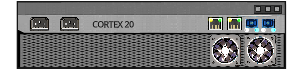
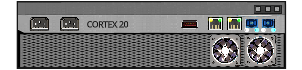
0.12.6

Changed region(s): [[0.2682, 0.2857, 0.447, 0.4], [0.596, 0.2857, 0.6556, 0.4286]]

diff --git a/tni-docs/devices.md b/tni-docs/devices.md
@@ -6,7 +6,7 @@ permalink: /data/devices
 
 # Devices
 {: .no_toc }
-GENERATED FOR TNI VERSION 0.12.5
+GENERATED FOR TNI VERSION 0.12.6
 
 - TOC
 {:toc}
@@ -22,7 +22,7 @@ GENERATED FOR TNI VERSION 0.12.5
 ## Avex Secretary<img src="{{ site.baseurl }}/tni-docs/assets/devices/Avex Secretary.webp" class="img-1em" /><wa-tooltip style="--max-width: 90vw;"><img src="{{ site.baseurl }}/tni-docs/assets/devices/Avex Secretary.webp" style="max-height: 25vh;" /></wa-tooltip>  
 **CPU:** `23` **MEM:** `13` **SIZE:** `10` **BW/t:** `168` **Watts:** 953w  
 **Base Price:** $5150 **Base Warranty:** 35.0 days   
-**Port Counts:** 2x `RJ45`, 2x `FIBER_OPTIC_SC`, 2x `SATA35_SLOT`, 2x `B_3PIN`  
+**Port Counts:** 2x `RJ45`, 2x `FIBER_OPTIC_SC`, 2x `SATA35_SLOT`, 1x `A_USB`, 2x `B_3PIN`  
 **Hardware Class:** `COMPUTE_SERVER`  
 **Merchants:** [Avex Tech<img src="{{ site.baseurl }}/tni-docs/assets/merchants/Avex Tech.svg" class="img-1em" /><wa-tooltip style="--max-width: 90vw;"><img src="{{ site.baseurl }}/tni-docs/assets/merchants/Avex Tech.svg" style="max-height: 25vh;" /></wa-tooltip>](merchants.md/#avex-tech)  
 **Description:**  
@@ -40,7 +40,7 @@ Spacious and efficient. Perfect for businesses with growing data needs.
 ## Avex Skua<img src="{{ site.baseurl }}/tni-docs/assets/devices/Avex Skua.webp" class="img-1em" /><wa-tooltip style="--max-width: 90vw;"><img src="{{ site.baseurl }}/tni-docs/assets/devices/Avex Skua.webp" style="max-height: 25vh;" /></wa-tooltip>  
 **CPU:** `12` **MEM:** `16` **SIZE:** `4` **BW/t:** `90` **Watts:** 723w  
 **Base Price:** $3000 **Base Warranty:** 21.0 days   
-**Port Counts:** 2x `RJ45`, 2x `SATA35_SLOT`, 1x `FIBER_OPTIC_SC`, 2x `B_3PIN`  
+**Port Counts:** 2x `RJ45`, 2x `SATA35_SLOT`, 1x `FIBER_OPTIC_SC`, 1x `A_USB`, 2x `B_3PIN`  
 **Hardware Class:** `COMPUTE_SERVER`  
 **Merchants:** [Avex Tech<img src="{{ site.baseurl }}/tni-docs/assets/merchants/Avex Tech.svg" class="img-1em" /><wa-tooltip style="--max-width: 90vw;"><img src="{{ site.baseurl }}/tni-docs/assets/merchants/Avex Tech.svg" style="max-height: 25vh;" /></wa-tooltip>](merchants.md/#avex-tech)  
 **Description:**  
@@ -58,7 +58,7 @@ Powerful and responsive. Perfect for businesses with intensive operations.
 ## Avex Sparrow<img src="{{ site.baseurl }}/tni-docs/assets/devices/Avex Sparrow.webp" class="img-1em" /><wa-tooltip style="--max-width: 90vw;"><img src="{{ site.baseurl }}/tni-docs/assets/devices/Avex Sparrow.webp" style="max-height: 25vh;" /></wa-tooltip>  
 **CPU:** `3` **MEM:** `4` **SIZE:** `8` **BW/t:** `21` **Watts:** 88w  
 **Base Price:** $1100 **Base Warranty:** 14.0 days   
-**Port Counts:** 3x `RJ45`, 1x `B_3PIN`  
+**Port Counts:** 3x `RJ45`, 1x `A_USB`, 1x `B_3PIN`  
 **Hardware Class:** `COMPUTE_SERVER`  
 **Merchants:** [Avex Tech<img src="{{ site.baseurl }}/tni-docs/assets/merchants/Avex Tech.svg" class="img-1em" /><wa-tooltip style="--max-width: 90vw;"><img src="{{ site.baseurl }}/tni-docs/assets/merchants/Avex Tech.svg" style="max-height: 25vh;" /></wa-tooltip>](merchants.md/#avex-tech)  
 **Description:**  
@@ -74,7 +74,7 @@ Compact and cost-efficient. Perfect for businesses in early deployment
 ## Avex Starling<img src="{{ site.baseurl }}/tni-docs/assets/devices/Avex Starling.webp" class="img-1em" /><wa-tooltip style="--max-width: 90vw;"><img src="{{ site.baseurl }}/tni-docs/assets/devices/Avex Starling.webp" style="max-height: 25vh;" /></wa-tooltip>  
 **CPU:** `7` **MEM:** `6` **SIZE:** `7` **BW/t:** `39` **Watts:** 191w  
 **Base Price:** $1150 **Base Warranty:** 14.0 days   
-**Port Counts:** 3x `RJ45`, 2x `B_3PIN`  
+**Port Counts:** 3x `RJ45`, 1x `A_USB`, 2x `B_3PIN`  
 **Hardware Class:** `COMPUTE_SERVER`  
 **Merchants:** [Avex Tech<img src="{{ site.baseurl }}/tni-docs/assets/merchants/Avex Tech.svg" class="img-1em" /><wa-tooltip style="--max-width: 90vw;"><img src="{{ site.baseurl }}/tni-docs/assets/merchants/Avex Tech.svg" style="max-height: 25vh;" /></wa-tooltip>](merchants.md/#avex-tech)  
 **Description:**  
@@ -90,7 +90,7 @@ Balanced and dependable. Perfect for businesses in steady expansion.
 ## Avex Swallow<img src="{{ site.baseurl }}/tni-docs/assets/devices/Avex Swallow.webp" class="img-1em" /><wa-tooltip style="--max-width: 90vw;"><img src="{{ site.baseurl }}/tni-docs/assets/devices/Avex Swallow.webp" style="max-height: 25vh;" /></wa-tooltip>  
 **CPU:** `4` **MEM:** `8` **SIZE:** `12` **BW/t:** `38` **Watts:** 200w  
 **Base Price:** $3000 **Base Warranty:** 21.0 days   
-**Port Counts:** 2x `RJ45`, 2x `SATA35_SLOT`, 1x `FIBER_OPTIC_SC`, 2x `B_3PIN`  
+**Port Counts:** 2x `RJ45`, 2x `SATA35_SLOT`, 1x `FIBER_OPTIC_SC`, 1x `A_USB`, 2x `B_3PIN`  
 **Hardware Class:** `COMPUTE_SERVER`  
 **Merchants:** [Avex Tech<img src="{{ site.baseurl }}/tni-docs/assets/merchants/Avex Tech.svg" class="img-1em" /><wa-tooltip style="--max-width: 90vw;"><img src="{{ site.baseurl }}/tni-docs/assets/merchants/Avex Tech.svg" style="max-height: 25vh;" /></wa-tooltip>](merchants.md/#avex-tech)  
 **Description:**  
@@ -309,7 +309,7 @@ This device is well sought after in the second hand market.
 ## Cortex 20<img src="{{ site.baseurl }}/tni-docs/assets/devices/Cortex 20.webp" class="img-1em" /><wa-tooltip style="--max-width: 90vw;"><img src="{{ site.baseurl }}/tni-docs/assets/devices/Cortex 20.webp" style="max-height: 25vh;" /></wa-tooltip>  
 **CPU:** `20` **MEM:** `20` **SIZE:** `3` **BW/t:** `180` **Watts:** 1018w  
 **Base Price:** $4050 **Base Warranty:** 35.0 days   
-**Port Counts:** 2x `RJ45`, 2x `FIBER_OPTIC_SC`, 2x `B_3PIN`  
+**Port Counts:** 2x `RJ45`, 2x `FIBER_OPTIC_SC`, 1x `A_USB`, 2x `B_3PIN`  
 **Hardware Class:** `COMPUTE_SERVER`  
 **Merchants:** [Cortex Org.<img src="{{ site.baseurl }}/tni-docs/assets/merchants/Cortex Org.png" class="img-1em" /><wa-tooltip style="--max-width: 90vw;"><img src="{{ site.baseurl }}/tni-docs/assets/merchants/Cortex Org.png" style="max-height: 25vh;" /></wa-tooltip>](merchants.md/#cortex-org)  
 **Description:**  
@@ -325,7 +325,7 @@ Suitable for medium teams.
 ## Cortex 28<img src="{{ site.baseurl }}/tni-docs/assets/devices/Cortex 28.webp" class="img-1em" /><wa-tooltip style="--max-width: 90vw;"><img src="{{ site.baseurl }}/tni-docs/assets/devices/Cortex 28.webp" style="max-height: 25vh;" /></wa-tooltip>  
 **CPU:** `28` **MEM:** `24` **SIZE:** `4` **BW/t:** `302` **Watts:** 1323w  
 **Base Price:** $6900 **Base Warranty:** 35.0 days   
-**Port Counts:** 2x `RJ45`, 3x `FIBER_OPTIC_SC`, 2x `B_3PIN`  
+**Port Counts:** 2x `RJ45`, 3x `FIBER_OPTIC_SC`, 1x `A_USB`, 2x `B_3PIN`  
 **Hardware Class:** `COMPUTE_SERVER`  
 **Merchants:** [Cortex Org.<img src="{{ site.baseurl }}/tni-docs/assets/merchants/Cortex Org.png" class="img-1em" /><wa-tooltip style="--max-width: 90vw;"><img src="{{ site.baseurl }}/tni-docs/assets/merchants/Cortex Org.png" style="max-height: 25vh;" /></wa-tooltip>](merchants.md/#cortex-org)  
 **Description:**  
@@ -341,7 +341,7 @@ Suitable for enterprise team.
 ## Cortex 8<img src="{{ site.baseurl }}/tni-docs/assets/devices/Cortex 8.webp" class="img-1em" /><wa-tooltip style="--max-width: 90vw;"><img src="{{ site.baseurl }}/tni-docs/assets/devices/Cortex 8.webp" style="max-height: 25vh;" /></wa-tooltip>  
 **CPU:** `8` **MEM:** `8` **SIZE:** `2` **BW/t:** `36` **Watts:** 186w  
 **Base Price:** $1250 **Base Warranty:** 28.0 days   
-**Port Counts:** 1x `RJ45`, 1x `FIBER_OPTIC_SC`, 1x `B_3PIN`  
+**Port Counts:** 1x `RJ45`, 1x `FIBER_OPTIC_SC`, 1x `A_USB`, 1x `B_3PIN`  
 **Hardware Class:** `COMPUTE_SERVER`  
 **Merchants:** [Cortex Org.<img src="{{ site.baseurl }}/tni-docs/assets/merchants/Cortex Org.png" class="img-1em" /><wa-tooltip style="--max-width: 90vw;"><img src="{{ site.baseurl }}/tni-docs/assets/merchants/Cortex Org.png" style="max-height: 25vh;" /></wa-tooltip>](merchants.md/#cortex-org)  
 **Description:**  
@@ -357,7 +357,7 @@ Suitable for light office use
 ## Cortex Espresso<img src="{{ site.baseurl }}/tni-docs/assets/devices/Cortex Espresso.webp" class="img-1em" /><wa-tooltip style="--max-width: 90vw;"><img src="{{ site.baseurl }}/tni-docs/assets/devices/Cortex Espresso.webp" style="max-height: 25vh;" /></wa-tooltip>  
 **CPU:** `16` **MEM:** `12` **SIZE:** `3` **BW/t:** `100` **Watts:** 718w  
 **Base Price:** $3050 **Base Warranty:** 28.0 days   
-**Port Counts:** 1x `RJ45`, 2x `FIBER_OPTIC_SC`, 1x `B_3PIN`  
+**Port Counts:** 1x `RJ45`, 2x `FIBER_OPTIC_SC`, 1x `A_USB`, 1x `B_3PIN`  
 **Hardware Class:** `COMPUTE_SERVER`  
 **Merchants:** [Cortex Org.<img src="{{ site.baseurl }}/tni-docs/assets/merchants/Cortex Org.png" class="img-1em" /><wa-tooltip style="--max-width: 90vw;"><img src="{{ site.baseurl }}/tni-docs/assets/merchants/Cortex Org.png" style="max-height: 25vh;" /></wa-tooltip>](merchants.md/#cortex-org)  
 **Description:**  
@@ -855,7 +855,7 @@ Requires a SAN initiator program on another device to mount its storage.
 ## ICC1<img src="{{ site.baseurl }}/tni-docs/assets/devices/ICC1.webp" class="img-1em" /><wa-tooltip style="--max-width: 90vw;"><img src="{{ site.baseurl }}/tni-docs/assets/devices/ICC1.webp" style="max-height: 25vh;" /></wa-tooltip>  
 **CPU:** `1` **MEM:** `2` **SIZE:** `2` **BW/t:** `6` **Watts:** 19w  
 **Base Price:** $160 **Base Warranty:** 8.0 days   
-**Port Counts:** 1x `RJ45`, 1x `SATA35_SLOT`, 1x `B_3PIN`  
+**Port Counts:** 1x `RJ45`, 1x `SATA35_SLOT`, 1x `A_USB`, 1x `B_3PIN`  
 **Hardware Class:** `COMPUTE_SERVER`  
 **Merchants:** [Interchange Compute Corporation<img src="{{ site.baseurl }}/tni-docs/assets/merchants/Interchange Compute Corporation.png" class="img-1em" /><wa-tooltip style="--max-width: 90vw;"><img src="{{ site.baseurl }}/tni-docs/assets/merchants/Interchange Compute Corporation.png" style="max-height: 25vh;" /></wa-tooltip>](merchants.md/#interchange-compute-corporation)  
 **Description:**  
@@ -871,7 +871,7 @@ Homelab equipment.
 ## ICC2<img src="{{ site.baseurl }}/tni-docs/assets/devices/ICC2.webp" class="img-1em" /><wa-tooltip style="--max-width: 90vw;"><img src="{{ site.baseurl }}/tni-docs/assets/devices/ICC2.webp" style="max-height: 25vh;" /></wa-tooltip>  
 **CPU:** `2` **MEM:** `4` **SIZE:** `2` **BW/t:** `12` **Watts:** 35w  
 **Base Price:** $345 **Base Warranty:** 8.0 days   
-**Port Counts:** 2x `RJ45`, 1x `SATA35_SLOT`, 1x `B_3PIN`  
+**Port Counts:** 2x `RJ45`, 1x `SATA35_SLOT`, 1x `A_USB`, 1x `B_3PIN`  
 **Hardware Class:** `COMPUTE_SERVER`  
 **Merchants:** [Interchange Compute Corporation<img src="{{ site.baseurl }}/tni-docs/assets/merchants/Interchange Compute Corporation.png" class="img-1em" /><wa-tooltip style="--max-width: 90vw;"><img src="{{ site.baseurl }}/tni-docs/assets/merchants/Interchange Compute Corporation.png" style="max-height: 25vh;" /></wa-tooltip>](merchants.md/#interchange-compute-corporation)  
 **Description:**  
@@ -898,7 +898,7 @@ Not rack mountable.
 ## MacroHard Boulder SRV<img src="{{ site.baseurl }}/tni-docs/assets/devices/MacroHard Boulder SRV.webp" class="img-1em" /><wa-tooltip style="--max-width: 90vw;"><img src="{{ site.baseurl }}/tni-docs/assets/devices/MacroHard Boulder SRV.webp" style="max-height: 25vh;" /></wa-tooltip>  
 **CPU:** `4` **MEM:** `4` **SIZE:** `6` **BW/t:** `16` **Watts:** 72w  
 **Base Price:** $450 **Base Warranty:** 14.0 days   
-**Port Counts:** 2x `RJ45`, 1x `B_3PIN`  
+**Port Counts:** 2x `RJ45`, 1x `A_USB`, 1x `B_3PIN`  
 **Hardware Class:** `COMPUTE_SERVER`  
 **Merchants:** [AB compute Ltd.<img src="{{ site.baseurl }}/tni-docs/assets/merchants/AB compute Ltd.png" class="img-1em" /><wa-tooltip style="--max-width: 90vw;"><img src="{{ site.baseurl }}/tni-docs/assets/merchants/AB compute Ltd.png" style="max-height: 25vh;" /></wa-tooltip>](merchants.md/#ab-compute-ltd), [Tutortial AB compute Ltd.<img src="{{ site.baseurl }}/tni-docs/assets/merchants/AB compute Ltd.png" class="img-1em" /><wa-tooltip style="--max-width: 90vw;"><img src="{{ site.baseurl }}/tni-docs/assets/merchants/AB compute Ltd.png" style="max-height: 25vh;" /></wa-tooltip>](merchants.md/#tutortial-ab-compute-ltd)  
 **Description:**  
@@ -914,7 +914,7 @@ Suitable for small businesses.
 ## MacroHard Boulder+ SRV<img src="{{ site.baseurl }}/tni-docs/assets/devices/MacroHard Boulder+ SRV.webp" class="img-1em" /><wa-tooltip style="--max-width: 90vw;"><img src="{{ site.baseurl }}/tni-docs/assets/devices/MacroHard Boulder+ SRV.webp" style="max-height: 25vh;" /></wa-tooltip>  
 **CPU:** `6` **MEM:** `8` **SIZE:** `8` **BW/t:** `28` **Watts:** 161w  
 **Base Price:** $850 **Base Warranty:** 14.0 days   
-**Port Counts:** 2x `RJ45`, 2x `B_3PIN`  
+**Port Counts:** 2x `RJ45`, 1x `A_USB`, 2x `B_3PIN`  
 **Hardware Class:** `COMPUTE_SERVER`  
 **Merchants:** [AB compute Ltd.<img src="{{ site.baseurl }}/tni-docs/assets/merchants/AB compute Ltd.png" class="img-1em" /><wa-tooltip style="--max-width: 90vw;"><img src="{{ site.baseurl }}/tni-docs/assets/merchants/AB compute Ltd.png" style="max-height: 25vh;" /></wa-tooltip>](merchants.md/#ab-compute-ltd), [Refurb Hut<img src="{{ site.baseurl }}/tni-docs/assets/merchants/Refurb Hut.svg" class="img-1em" /><wa-tooltip style="--max-width: 90vw;"><img src="{{ site.baseurl }}/tni-docs/assets/merchants/Refurb Hut.svg" style="max-height: 25vh;" /></wa-tooltip>](merchants.md/#refurb-hut), [The Server Shoppe<img src="{{ site.baseurl }}/tni-docs/assets/merchants/The Server Shoppe.png" class="img-1em" /><wa-tooltip style="--max-width: 90vw;"><img src="{{ site.baseurl }}/tni-docs/assets/merchants/The Server Shoppe.png" style="max-height: 25vh;" /></wa-tooltip>](merchants.md/#the-server-shoppe), [Tutortial AB compute Ltd.<img src="{{ site.baseurl }}/tni-docs/assets/merchants/AB compute Ltd.png" class="img-1em" /><wa-tooltip style="--max-width: 90vw;"><img src="{{ site.baseurl }}/tni-docs/assets/merchants/AB compute Ltd.png" style="max-height: 25vh;" /></wa-tooltip>](merchants.md/#tutortial-ab-compute-ltd)  
 **Description:**  
@@ -930,7 +930,7 @@ High performance model.
 ## MacroHard Boulder++ SRV<img src="{{ site.baseurl }}/tni-docs/assets/devices/MacroHard Boulder++ SRV.webp" class="img-1em" /><wa-tooltip style="--max-width: 90vw;"><img src="{{ site.baseurl }}/tni-docs/assets/devices/MacroHard Boulder++ SRV.webp" style="max-height: 25vh;" /></wa-tooltip>  
 **CPU:** `6` **MEM:** `10` **SIZE:** `10` **BW/t:** `48` **Watts:** 312w  
 **Base Price:** $1400 **Base Warranty:** 14.0 days   
-**Port Counts:** 3x `RJ45`, 2x `B_3PIN`  
+**Port Counts:** 3x `RJ45`, 1x `A_USB`, 2x `B_3PIN`  
 **Hardware Class:** `COMPUTE_SERVER`  
 **Merchants:** [The Server Shoppe<img src="{{ site.baseurl }}/tni-docs/assets/merchants/The Server Shoppe.png" class="img-1em" /><wa-tooltip style="--max-width: 90vw;"><img src="{{ site.baseurl }}/tni-docs/assets/merchants/The Server Shoppe.png" style="max-height: 25vh;" /></wa-tooltip>](merchants.md/#the-server-shoppe)  
 **Description:**  
@@ -946,7 +946,7 @@ High performance model with extra bandwidth.
 ## MacroHard Ledge Three SRV<img src="{{ site.baseurl }}/tni-docs/assets/devices/MacroHard Ledge Three SRV.webp" class="img-1em" /><wa-tooltip style="--max-width: 90vw;"><img src="{{ site.baseurl }}/tni-docs/assets/devices/MacroHard Ledge Three SRV.webp" style="max-height: 25vh;" /></wa-tooltip>  
 **CPU:** `24` **MEM:** `16` **SIZE:** `4` **BW/t:** `208` **Watts:** 1125w  
 **Base Price:** $3200 **Base Warranty:** 21.0 days   
-**Port Counts:** 2x `SATA35_SLOT`, 4x `FIBER_OPTIC_SC`, 2x `B_3PIN`  
+**Port Counts:** 2x `SATA35_SLOT`, 4x `FIBER_OPTIC_SC`, 1x `A_USB`, 2x `B_3PIN`  
 **Hardware Class:** `COMPUTE_SERVER`  
 **Merchants:** [The Server Shoppe<img src="{{ site.baseurl }}/tni-docs/assets/merchants/The Server Shoppe.png" class="img-1em" /><wa-tooltip style="--max-width: 90vw;"><img src="{{ site.baseurl }}/tni-docs/assets/merchants/The Server Shoppe.png" style="max-height: 25vh;" /></wa-tooltip>](merchants.md/#the-server-shoppe)  
 **Description:**  
@@ -962,7 +962,7 @@ Fiber enabled compute server.
 ## MacroHard Ledge Two SRV<img src="{{ site.baseurl }}/tni-docs/assets/devices/MacroHard Ledge Two SRV.webp" class="img-1em" /><wa-tooltip style="--max-width: 90vw;"><img src="{{ site.baseurl }}/tni-docs/assets/devices/MacroHard Ledge Two SRV.webp" style="max-height: 25vh;" /></wa-tooltip>  
 **CPU:** `24` **MEM:** `14` **SIZE:** `4` **BW/t:** `150` **Watts:** 973w  
 **Base Price:** $2100 **Base Warranty:** 21.0 days   
-**Port Counts:** 2x `SATA35_SLOT`, 3x `FIBER_OPTIC_SC`, 2x `B_3PIN`  
+**Port Counts:** 2x `SATA35_SLOT`, 3x `FIBER_OPTIC_SC`, 1x `A_USB`, 2x `B_3PIN`  
 **Hardware Class:** `COMPUTE_SERVER`  
 **Merchants:** [The Server Shoppe<img src="{{ site.baseurl }}/tni-docs/assets/merchants/The Server Shoppe.png" class="img-1em" /><wa-tooltip style="--max-width: 90vw;"><img src="{{ site.baseurl }}/tni-docs/assets/merchants/The Server Shoppe.png" style="max-height: 25vh;" /></wa-tooltip>](merchants.md/#the-server-shoppe)  
 **Description:**  
@@ -978,7 +978,7 @@ Fiber enabled compute server.
 ## MacroHard Megalith SRV<img src="{{ site.baseurl }}/tni-docs/assets/devices/MacroHard Megalith SRV.webp" class="img-1em" /><wa-tooltip style="--max-width: 90vw;"><img src="{{ site.baseurl }}/tni-docs/assets/devices/MacroHard Megalith SRV.webp" style="max-height: 25vh;" /></wa-tooltip>  
 **CPU:** `32` **MEM:** `16` **SIZE:** `4` **BW/t:** `240` **Watts:** 1223w  
 **Base Price:** $3800 **Base Warranty:** 24.0 days   
-**Port Counts:** 5x `RJ45`, 6x `SATA35_SLOT`, 2x `B_3PIN`  
+**Port Counts:** 5x `RJ45`, 6x `SATA35_SLOT`, 1x `A_USB`, 2x `B_3PIN`  
 **Hardware Class:** `COMPUTE_SERVER`  
 **Merchants:** [Refurb Hut<img src="{{ site.baseurl }}/tni-docs/assets/merchants/Refurb Hut.svg" class="img-1em" /><wa-tooltip style="--max-width: 90vw;"><img src="{{ site.baseurl }}/tni-docs/assets/merchants/Refurb Hut.svg" style="max-height: 25vh;" /></wa-tooltip>](merchants.md/#refurb-hut), [The Server Shoppe<img src="{{ site.baseurl }}/tni-docs/assets/merchants/The Server Shoppe.png" class="img-1em" /><wa-tooltip style="--max-width: 90vw;"><img src="{{ site.baseurl }}/tni-docs/assets/merchants/The Server Shoppe.png" style="max-height: 25vh;" /></wa-tooltip>](merchants.md/#the-server-shoppe)  
 **Description:**  
@@ -994,7 +994,7 @@ Comes with 6 SATA 3.5" expansion slot.
 ## MacroHard Monolith SRV<img src="{{ site.baseurl }}/tni-docs/assets/devices/MacroHard Monolith SRV.webp" class="img-1em" /><wa-tooltip style="--max-width: 90vw;"><img src="{{ site.baseurl }}/tni-docs/assets/devices/MacroHard Monolith SRV.webp" style="max-height: 25vh;" /></wa-tooltip>  
 **CPU:** `16` **MEM:** `10` **SIZE:** `4` **BW/t:** `52` **Watts:** 429w  
 **Base Price:** $1680 **Base Warranty:** 14.0 days   
-**Port Counts:** 2x `RJ45`, 2x `SATA35_SLOT`, 2x `B_3PIN`  
+**Port Counts:** 2x `RJ45`, 2x `SATA35_SLOT`, 1x `A_USB`, 2x `B_3PIN`  
 **Hardware Class:** `COMPUTE_SERVER`  
 **Merchants:** [The Server Shoppe<img src="{{ site.baseurl }}/tni-docs/assets/merchants/The Server Shoppe.png" class="img-1em" /><wa-tooltip style="--max-width: 90vw;"><img src="{{ site.baseurl }}/tni-docs/assets/merchants/The Server Shoppe.png" style="max-height: 25vh;" /></wa-tooltip>](merchants.md/#the-server-shoppe)  
 **Description:**  
@@ -1057,7 +1057,7 @@ Not rack mountable.
 ## Savannah Aardvark<img src="{{ site.baseurl }}/tni-docs/assets/devices/Savannah Aardvark.webp" class="img-1em" /><wa-tooltip style="--max-width: 90vw;"><img src="{{ site.baseurl }}/tni-docs/assets/devices/Savannah Aardvark.webp" style="max-height: 25vh;" /></wa-tooltip>  
 **CPU:** `10` **MEM:** `10` **SIZE:** `5` **BW/t:** `65` **Watts:** 293w  
 **Base Price:** $4500 **Base Warranty:** 42.0 days   
-**Port Counts:** 2x `RJ45`, 1x `FIBER_OPTIC_SC`, 2x `SATA35_SLOT`, 2x `B_3PIN`  
+**Port Counts:** 2x `RJ45`, 1x `FIBER_OPTIC_SC`, 2x `SATA35_SLOT`, 1x `A_USB`, 2x `B_3PIN`  
 **Hardware Class:** `COMPUTE_SERVER`  
 **Merchants:** [Savannah Org.<img src="{{ site.baseurl }}/tni-docs/assets/merchants/Savannah Org.png" class="img-1em" /><wa-tooltip style="--max-width: 90vw;"><img src="{{ site.baseurl }}/tni-docs/assets/merchants/Savannah Org.png" style="max-height: 25vh;" /></wa-tooltip>](merchants.md/#savannah-org)  
 **Description:**  
@@ -1073,7 +1073,7 @@ Mountable on 500px racks.
 ## Savannah Gazelle<img src="{{ site.baseurl }}/tni-docs/assets/devices/Savannah Gazelle.webp" class="img-1em" /><wa-tooltip style="--max-width: 90vw;"><img src="{{ site.baseurl }}/tni-docs/assets/devices/Savannah Gazelle.webp" style="max-height: 25vh;" /></wa-tooltip>  
 **CPU:** `6` **MEM:** `6` **SIZE:** `6` **BW/t:** `24` **Watts:** 108w  
 **Base Price:** $2200 **Base Warranty:** 35.0 days   
-**Port Counts:** 2x `RJ45`, 2x `B_3PIN`  
+**Port Counts:** 2x `RJ45`, 1x `A_USB`, 2x `B_3PIN`  
 **Hardware Class:** `COMPUTE_SERVER`  
 **Merchants:** [AB compute Ltd.<img src="{{ site.baseurl }}/tni-docs/assets/merchants/AB compute Ltd.png" class="img-1em" /><wa-tooltip style="--max-width: 90vw;"><img src="{{ site.baseurl }}/tni-docs/assets/merchants/AB compute Ltd.png" style="max-height: 25vh;" /></wa-tooltip>](merchants.md/#ab-compute-ltd), [Savannah Org.<img src="{{ site.baseurl }}/tni-docs/assets/merchants/Savannah Org.png" class="img-1em" /><wa-tooltip style="--max-width: 90vw;"><img src="{{ site.baseurl }}/tni-docs/assets/merchants/Savannah Org.png" style="max-height: 25vh;" /></wa-tooltip>](merchants.md/#savannah-org), [Tutortial AB compute Ltd.<img src="{{ site.baseurl }}/tni-docs/assets/merchants/AB compute Ltd.png" class="img-1em" /><wa-tooltip style="--max-width: 90vw;"><img src="{{ site.baseurl }}/tni-docs/assets/merchants/AB compute Ltd.png" style="max-height: 25vh;" /></wa-tooltip>](merchants.md/#tutortial-ab-compute-ltd)  
 **Description:**  
@@ -1089,7 +1089,7 @@ The gazelle is a durable device that is designed to last long in high load condi
 ## Savannah Meerkat<img src="{{ site.baseurl }}/tni-docs/assets/devices/Savannah Meerkat.webp" class="img-1em" /><wa-tooltip style="--max-width: 90vw;"><img src="{{ site.baseurl }}/tni-docs/assets/devices/Savannah Meerkat.webp" style="max-height: 25vh;" /></wa-tooltip>  
 **CPU:** `4` **MEM:** `4` **SIZE:** `4` **BW/t:** `16` **Watts:** 62w  
 **Base Price:** $950 **Base Warranty:** 21.0 days   
-**Port Counts:** 2x `RJ45`, 1x `B_3PIN`  
+**Port Counts:** 2x `RJ45`, 1x `A_USB`, 1x `B_3PIN`  
 **Hardware Class:** `COMPUTE_SERVER`  
 **Merchants:** [Refurb Hut<img src="{{ site.baseurl }}/tni-docs/assets/merchants/Refurb Hut.svg" class="img-1em" /><wa-tooltip style="--max-width: 90vw;"><img src="{{ site.baseurl }}/tni-docs/assets/merchants/Refurb Hut.svg" style="max-height: 25vh;" /></wa-tooltip>](merchants.md/#refurb-hut), [Savannah Org.<img src="{{ site.baseurl }}/tni-docs/assets/merchants/Savannah Org.png" class="img-1em" /><wa-tooltip style="--max-width: 90vw;"><img src="{{ site.baseurl }}/tni-docs/assets/merchants/Savannah Org.png" style="max-height: 25vh;" /></wa-tooltip>](merchants.md/#savannah-org)  
 **Description:**  
@@ -1105,7 +1105,7 @@ Scalable compute.
 ## Savannah Wildebeest<img src="{{ site.baseurl }}/tni-docs/assets/devices/Savannah Wildebeest.webp" class="img-1em" /><wa-tooltip style="--max-width: 90vw;"><img src="{{ site.baseurl }}/tni-docs/assets/devices/Savannah Wildebeest.webp" style="max-height: 25vh;" /></wa-tooltip>  
 **CPU:** `16` **MEM:** `16` **SIZE:** `8` **BW/t:** `104` **Watts:** 423w  
 **Base Price:** $6800 **Base Warranty:** 49.0 days   
-**Port Counts:** 2x `RJ45`, 1x `FIBER_OPTIC_SC`, 2x `SATA35_SLOT`, 2x `B_3PIN`  
+**Port Counts:** 2x `RJ45`, 1x `FIBER_OPTIC_SC`, 2x `SATA35_SLOT`, 1x `A_USB`, 2x `B_3PIN`  
 **Hardware Class:** `COMPUTE_SERVER`  
 **Merchants:** [Savannah Org.<img src="{{ site.baseurl }}/tni-docs/assets/merchants/Savannah Org.png" class="img-1em" /><wa-tooltip style="--max-width: 90vw;"><img src="{{ site.baseurl }}/tni-docs/assets/merchants/Savannah Org.png" style="max-height: 25vh;" /></wa-tooltip>](merchants.md/#savannah-org)  
 **Description:**  

diff --git a/tni-docs/locations.md b/tni-docs/locations.md
@@ -6,7 +6,7 @@ permalink: /data/locations
 
 # Locations / Floors
 {: .no_toc }
-GENERATED FOR TNI VERSION 0.12.5
+GENERATED FOR TNI VERSION 0.12.6
 
 **NOTE:**  
 Many floors/locations are not listed here due to irrelevance.  

diff --git a/tni-docs/proposals-Tenabolt Prometheus.md b/tni-docs/proposals-Tenabolt Prometheus.md
@@ -6,7 +6,7 @@ permalink: /data/proposals/Tenabolt Prometheus
 
 # Proposals for Tenabolt Prometheus
 {: .no_toc }
-GENERATED FOR TNI VERSION 0.12.5
+GENERATED FOR TNI VERSION 0.12.6
 
 - TOC
 {:toc}

diff --git a/tni-docs/traffic_types.md b/tni-docs/traffic_types.md
@@ -6,7 +6,7 @@ permalink: /data/traffic_types
 
 # Traffic Types
 {: .no_toc }
-GENERATED FOR TNI VERSION 0.12.5
+GENERATED FOR TNI VERSION 0.12.6
 
 `#` represents any number between 0-9  
   

diff --git a/tni-docs/proposals-Standard.md b/tni-docs/proposals-Standard.md
@@ -6,7 +6,7 @@ permalink: /data/proposals/Standard
 
 # Proposals for Standard
 {: .no_toc }
-GENERATED FOR TNI VERSION 0.12.5
+GENERATED FOR TNI VERSION 0.12.6
 
 - TOC
 {:toc}

diff --git a/tni-docs/link-sizings.md b/tni-docs/link-sizings.md
@@ -6,7 +6,7 @@ permalink: /data/link-sizings
 
 # Link Sizings
 {: .no_toc }
-GENERATED FOR TNI VERSION 0.12.5
+GENERATED FOR TNI VERSION 0.12.6
 
 - TOC
 {:toc}

diff --git a/tni-docs/merchants.md b/tni-docs/merchants.md
@@ -6,7 +6,7 @@ permalink: /data/merchants
 
 # Merchants
 {: .no_toc }
-GENERATED FOR TNI VERSION 0.12.5
+GENERATED FOR TNI VERSION 0.12.6
 
 - TOC
 {:toc}

diff --git a/tni-docs/programs.md b/tni-docs/programs.md
@@ -6,7 +6,7 @@ permalink: /data/programs
 
 # Programs
 {: .no_toc }
-GENERATED FOR TNI VERSION 0.12.5
+GENERATED FOR TNI VERSION 0.12.6
 
 - TOC
 {:toc}

diff --git a/tni-docs/users.md b/tni-docs/users.md
@@ -6,7 +6,7 @@ permalink: /data/users
 
 # Users
 {: .no_toc }
-GENERATED FOR TNI VERSION 0.12.5
+GENERATED FOR TNI VERSION 0.12.6
 
 - TOC
 {:toc}
